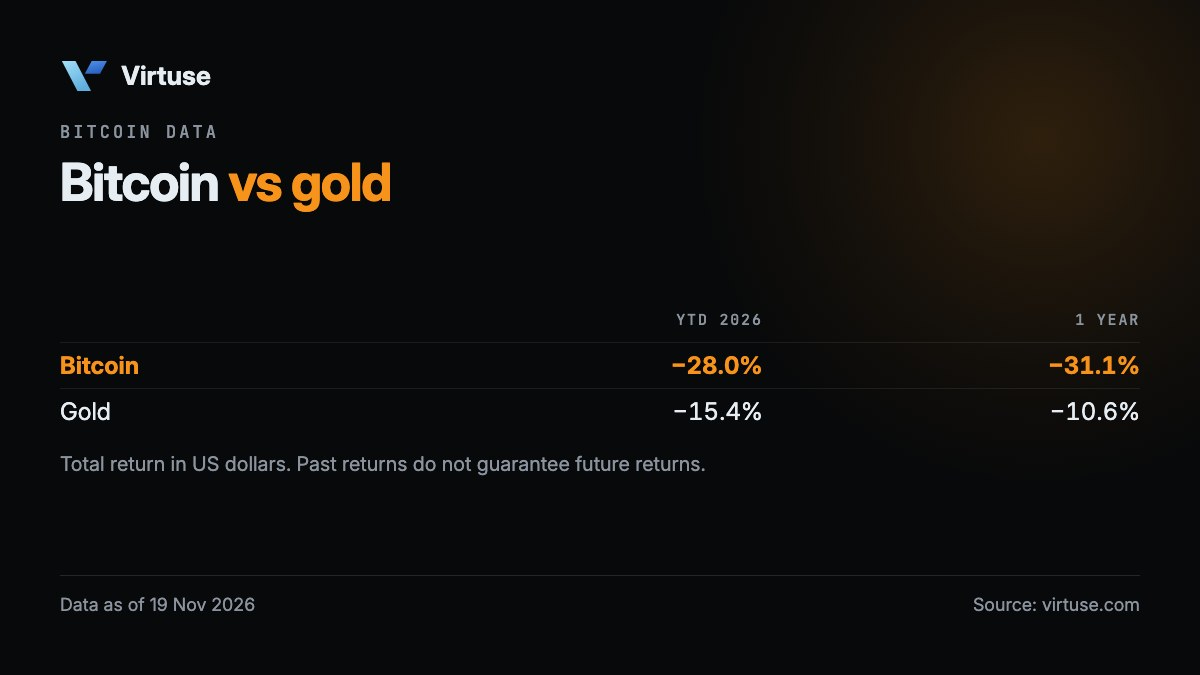
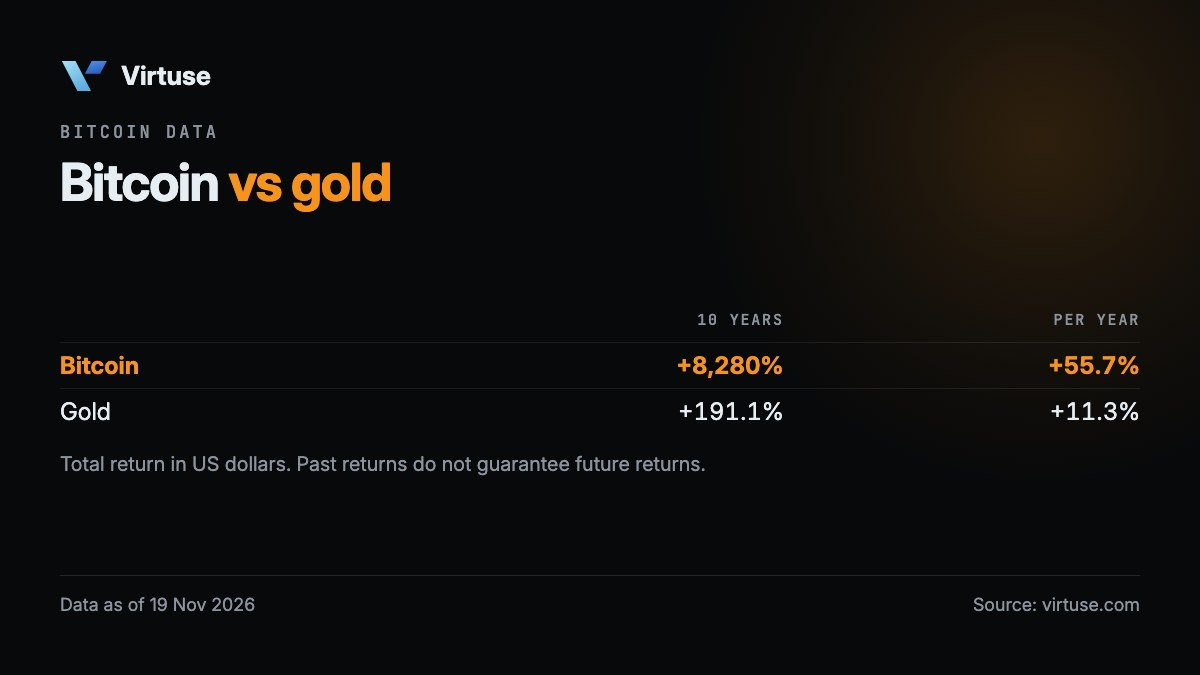
Share kit: Bitcoin vs gold over 10 years instead of YTD and 1 year
Ras decided on 23 Nov: the graphic shows the 10-year total and per-year
return in USD (data/bitcoin-vs-commodities.json periods.y10), not YTD.
Keys kit_ytd/kit_1y become kit_10y/kit_pa.

diff --git a/Kimi_Agent_Virtuse%20MiCA%20Partners/i18n-tools/creators/render_kit.py b/Kimi_Agent_Virtuse%20MiCA%20Partners/i18n-tools/creators/render_kit.py
@@ -4,7 +4,7 @@
 usage: python3 render_kit.py            (needs Google Chrome, Node 18+ and network for Google Fonts)
 
 Every number is read from the data files at render time; nothing is typed into a template.
-  btc-vs-gold      data/bitcoin-vs-commodities.json   Bitcoin and gold, YTD and 1 year, USD
+  btc-vs-gold      data/bitcoin-vs-commodities.json   Bitcoin and gold, 10 years: total and per year, USD
   asset-returns    data/asset-returns.json            Bitcoin's rank and per-year return since 2016
   fee-index        seo-build/data/fee-index.json      total cost of a EUR 100 buy (same ranking as the Fee Index page;
                                                       a route whose spread is not measured yet is shown unranked)
@@ -29,7 +29,7 @@ LANGS = ['en', 'sk']
 SIZES = {'1080x1080': (1080, 1080), '1200x675': (1200, 675)}
 GRAPHICS = ['btc-vs-gold', 'asset-returns', 'fee-index', 'monthly-returns']
 MAX_BYTES = 300 * 1024
-MONTHS_SK = ['január', 'február', 'marec', 'apríl', 'máj', 'jún', 'júl', 'august', 'september', 'október', 'november', 'december']
+MONTHS_SK = ['januári', 'februári', 'marci', 'apríli', 'máji', 'júni', 'júli', 'auguste', 'septembri', 'októbri', 'novembri', 'decembri']  # locative: "Bitcoin v novembri"
 
 esc = lambda s: html.escape(str(s), quote=True)
 
@@ -57,8 +57,8 @@ def ret(v, L, signed=True):
 def d_gold():
     d = json.load(open(os.path.join(SITE, 'data', 'bitcoin-vs-commodities.json')))
     a = {x['id']: x for x in d['assets']}
-    return {'asOf': d['asOf'], 'ytdYear': d['ytdYear'],
-            'rows': [(k, a[k]['periods']['ytd']['usd'], a[k]['periods']['y1']['usd']) for k in ('btc', 'gold')]}
+    return {'asOf': d['asOf'],
+            'rows': [(k, a[k]['periods']['y10']['usd'], a[k]['periods']['y10']['usdPa']) for k in ('btc', 'gold')]}
 
 
 def d_assets():
@@ -139,9 +139,9 @@ def page(size, eye, h1, main, asof, t):
 
 def g_gold(D, t, L, size):
     rows = ''.join('<tr%s><td>%s</td><td>%s</td><td>%s</td></tr>' % (' class="btc"' if k == 'btc' else '', esc(t['kit_btc'] if k == 'btc' else t['kit_gold']),
-                                                                   ret(ytd, L), ret(y1, L)) for k, ytd, y1 in D['rows'])
+                                                                   ret(tot, L), ret(pa, L)) for k, tot, pa in D['rows'])
     main = '<table><thead><tr><th></th><th>%s</th><th>%s</th></tr></thead><tbody>%s</tbody></table><p class="note">%s</p>' % (
-        esc(t['kit_ytd'].replace('{year}', str(D['ytdYear']))), esc(t['kit_1y']), rows, esc(t['kit_usd_total']))
+        esc(t['kit_10y']), esc(t['kit_pa']), rows, esc(t['kit_usd_total']))
     return page(size, t['kit_gold_eye'], esc(t['kit_gold_h1']).replace('{em}', '<em>').replace('{/em}', '</em>'), main,
                 t['kit_asof'].replace('{date}', F.date_str(D['asOf'], L)), t)
 
